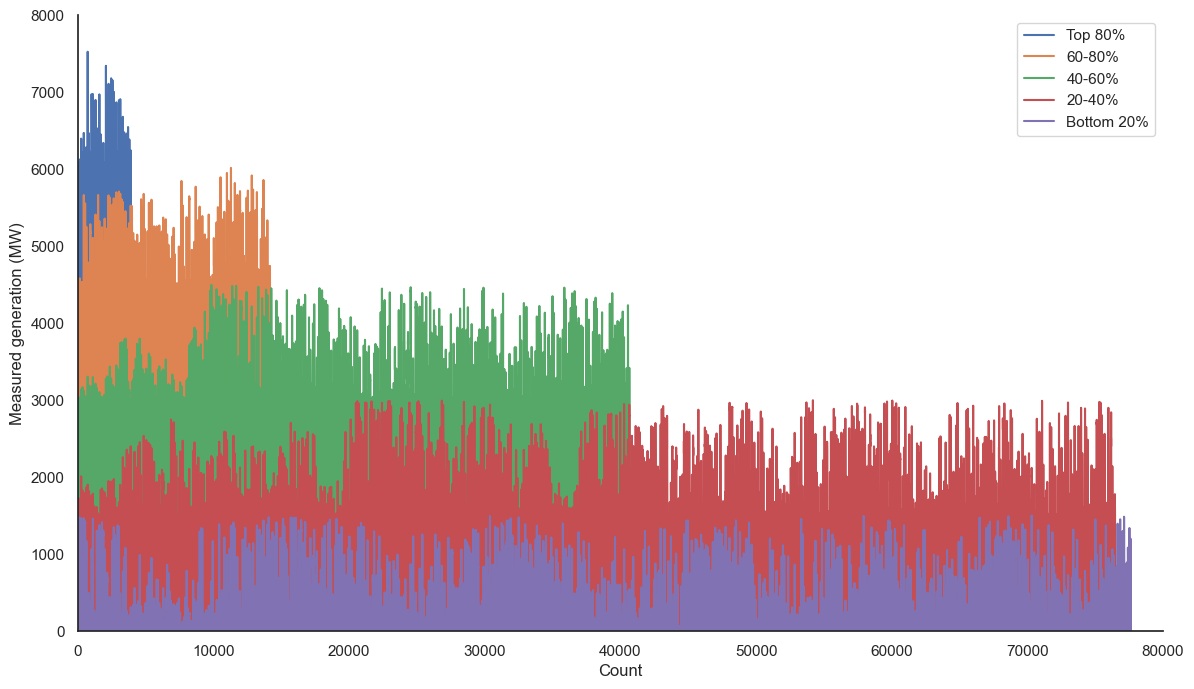
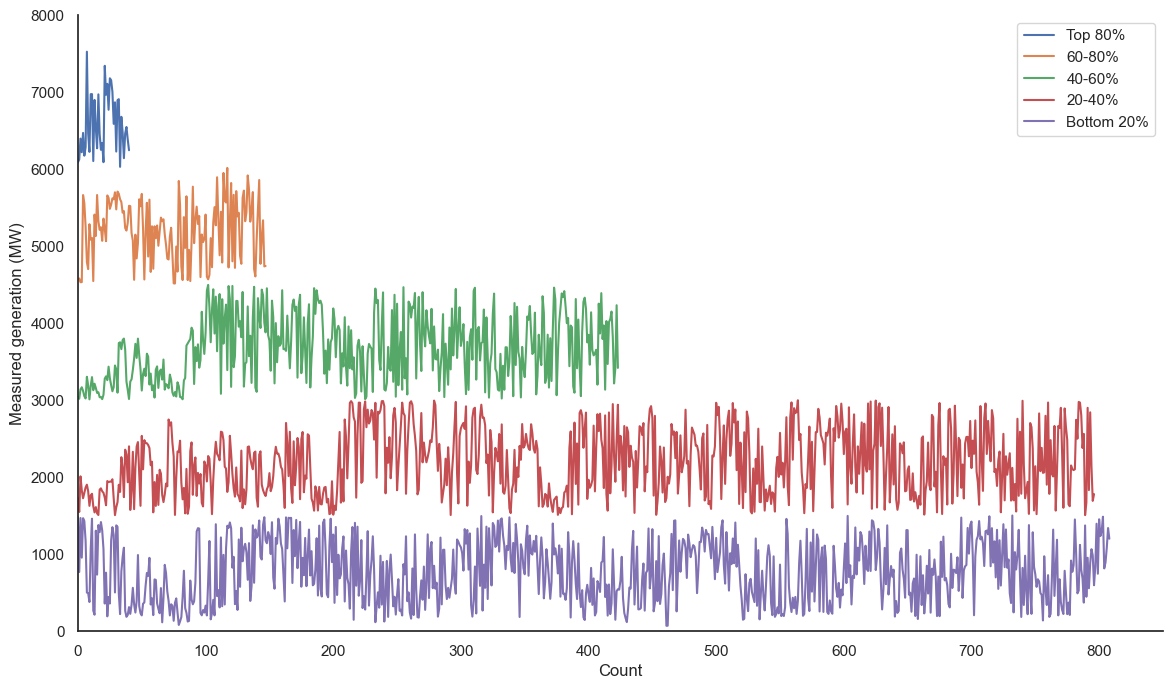
belgium solar minor fixes

Changed region(s): [[0.0, 0.0305, 1.0, 1.0], [0.8601, 0.0305, 0.9829, 0.1829], [0.0307, 0.0, 0.0614, 0.0305]]

diff --git a/content/posts/data-science/belgium-solar-part-i.md b/content/posts/data-science/belgium-solar-part-i.md
@@ -183,13 +183,13 @@ Ah, yeah. Lots of 0s. Let’s try something different - take the daily maximum v
 
 ![Histogram of daily maxes](/images/posts/data-science/belgium-solar/belgium-solar-i-10.png)
 
-Looks better. The first bin is still the biggest, with ~1/3 of the days; the second bin is also ~1/3, with fractionally fewer. And what if we take all these daily maximums and plot them on a graph, overlapping to provide slightly different ways to compare than the histogram:
+I was also curious to show this data in a line graph form, similar to the generation-over-time plots above. Below is effectively a histogram on its side, but instead of simple buckets, it has the actual data points, with relative time for each line (i.e. the left of each line is 2018 and the right of each line is 2024, and the points are in temporal order). The actual x axis is the count of points, same as the histogram y.
 
 ![Generation grouped by size chart](/images/posts/data-science/belgium-solar/belgium-solar-i-11.png)
 
 ### Stationarity
 
-Stationarity is when the statistical properties - namely mean and variable - of a time series do not change. Again, `statsmodels` made this easy, with their Augmented Dickey-Fuller (ADF) function (`adfuller(df_be.measured, autolag='AIC')`). The null hypothesis is ****non-stationarity***.* The results:
+Stationarity is when the statistical properties - namely mean and variable - of a time series do not change. Again, `statsmodels` made this easy, with their Augmented Dickey-Fuller (ADF) function (`adfuller(df_be.measured, autolag='AIC')`). The null hypothesis is **non-stationarity**. The results:
 
 > (-11.94507306500257,
 >
